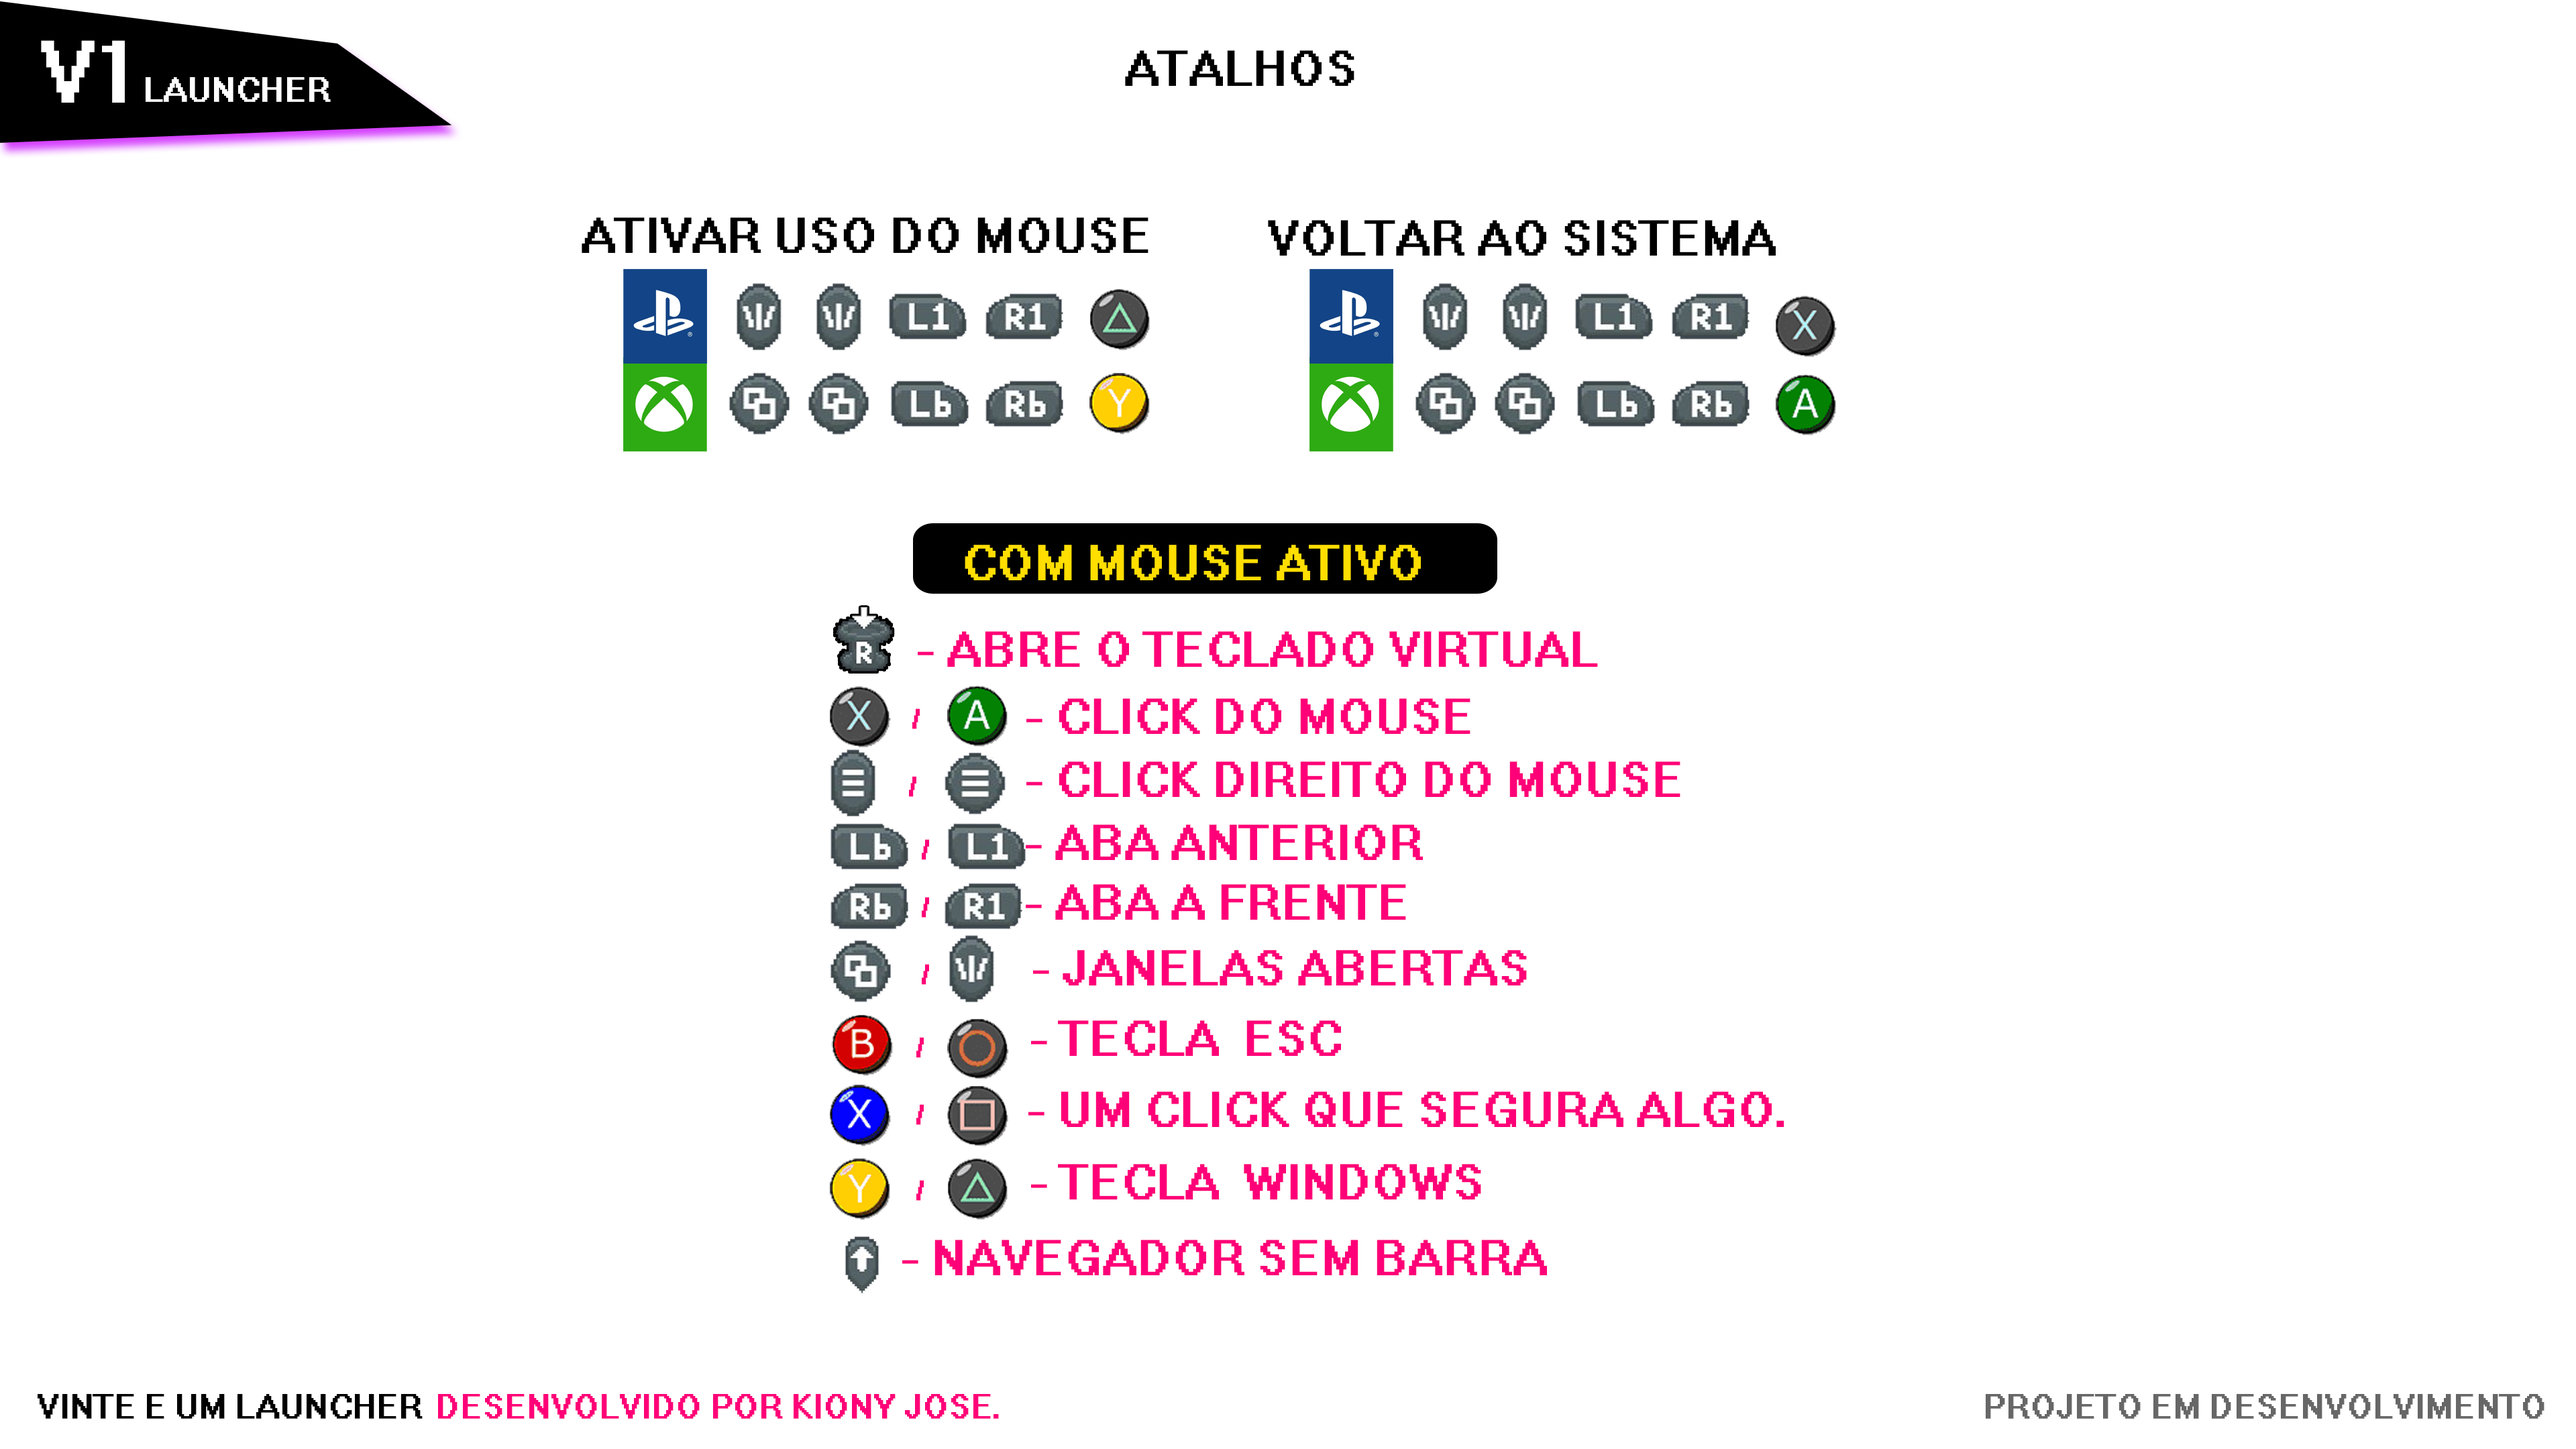
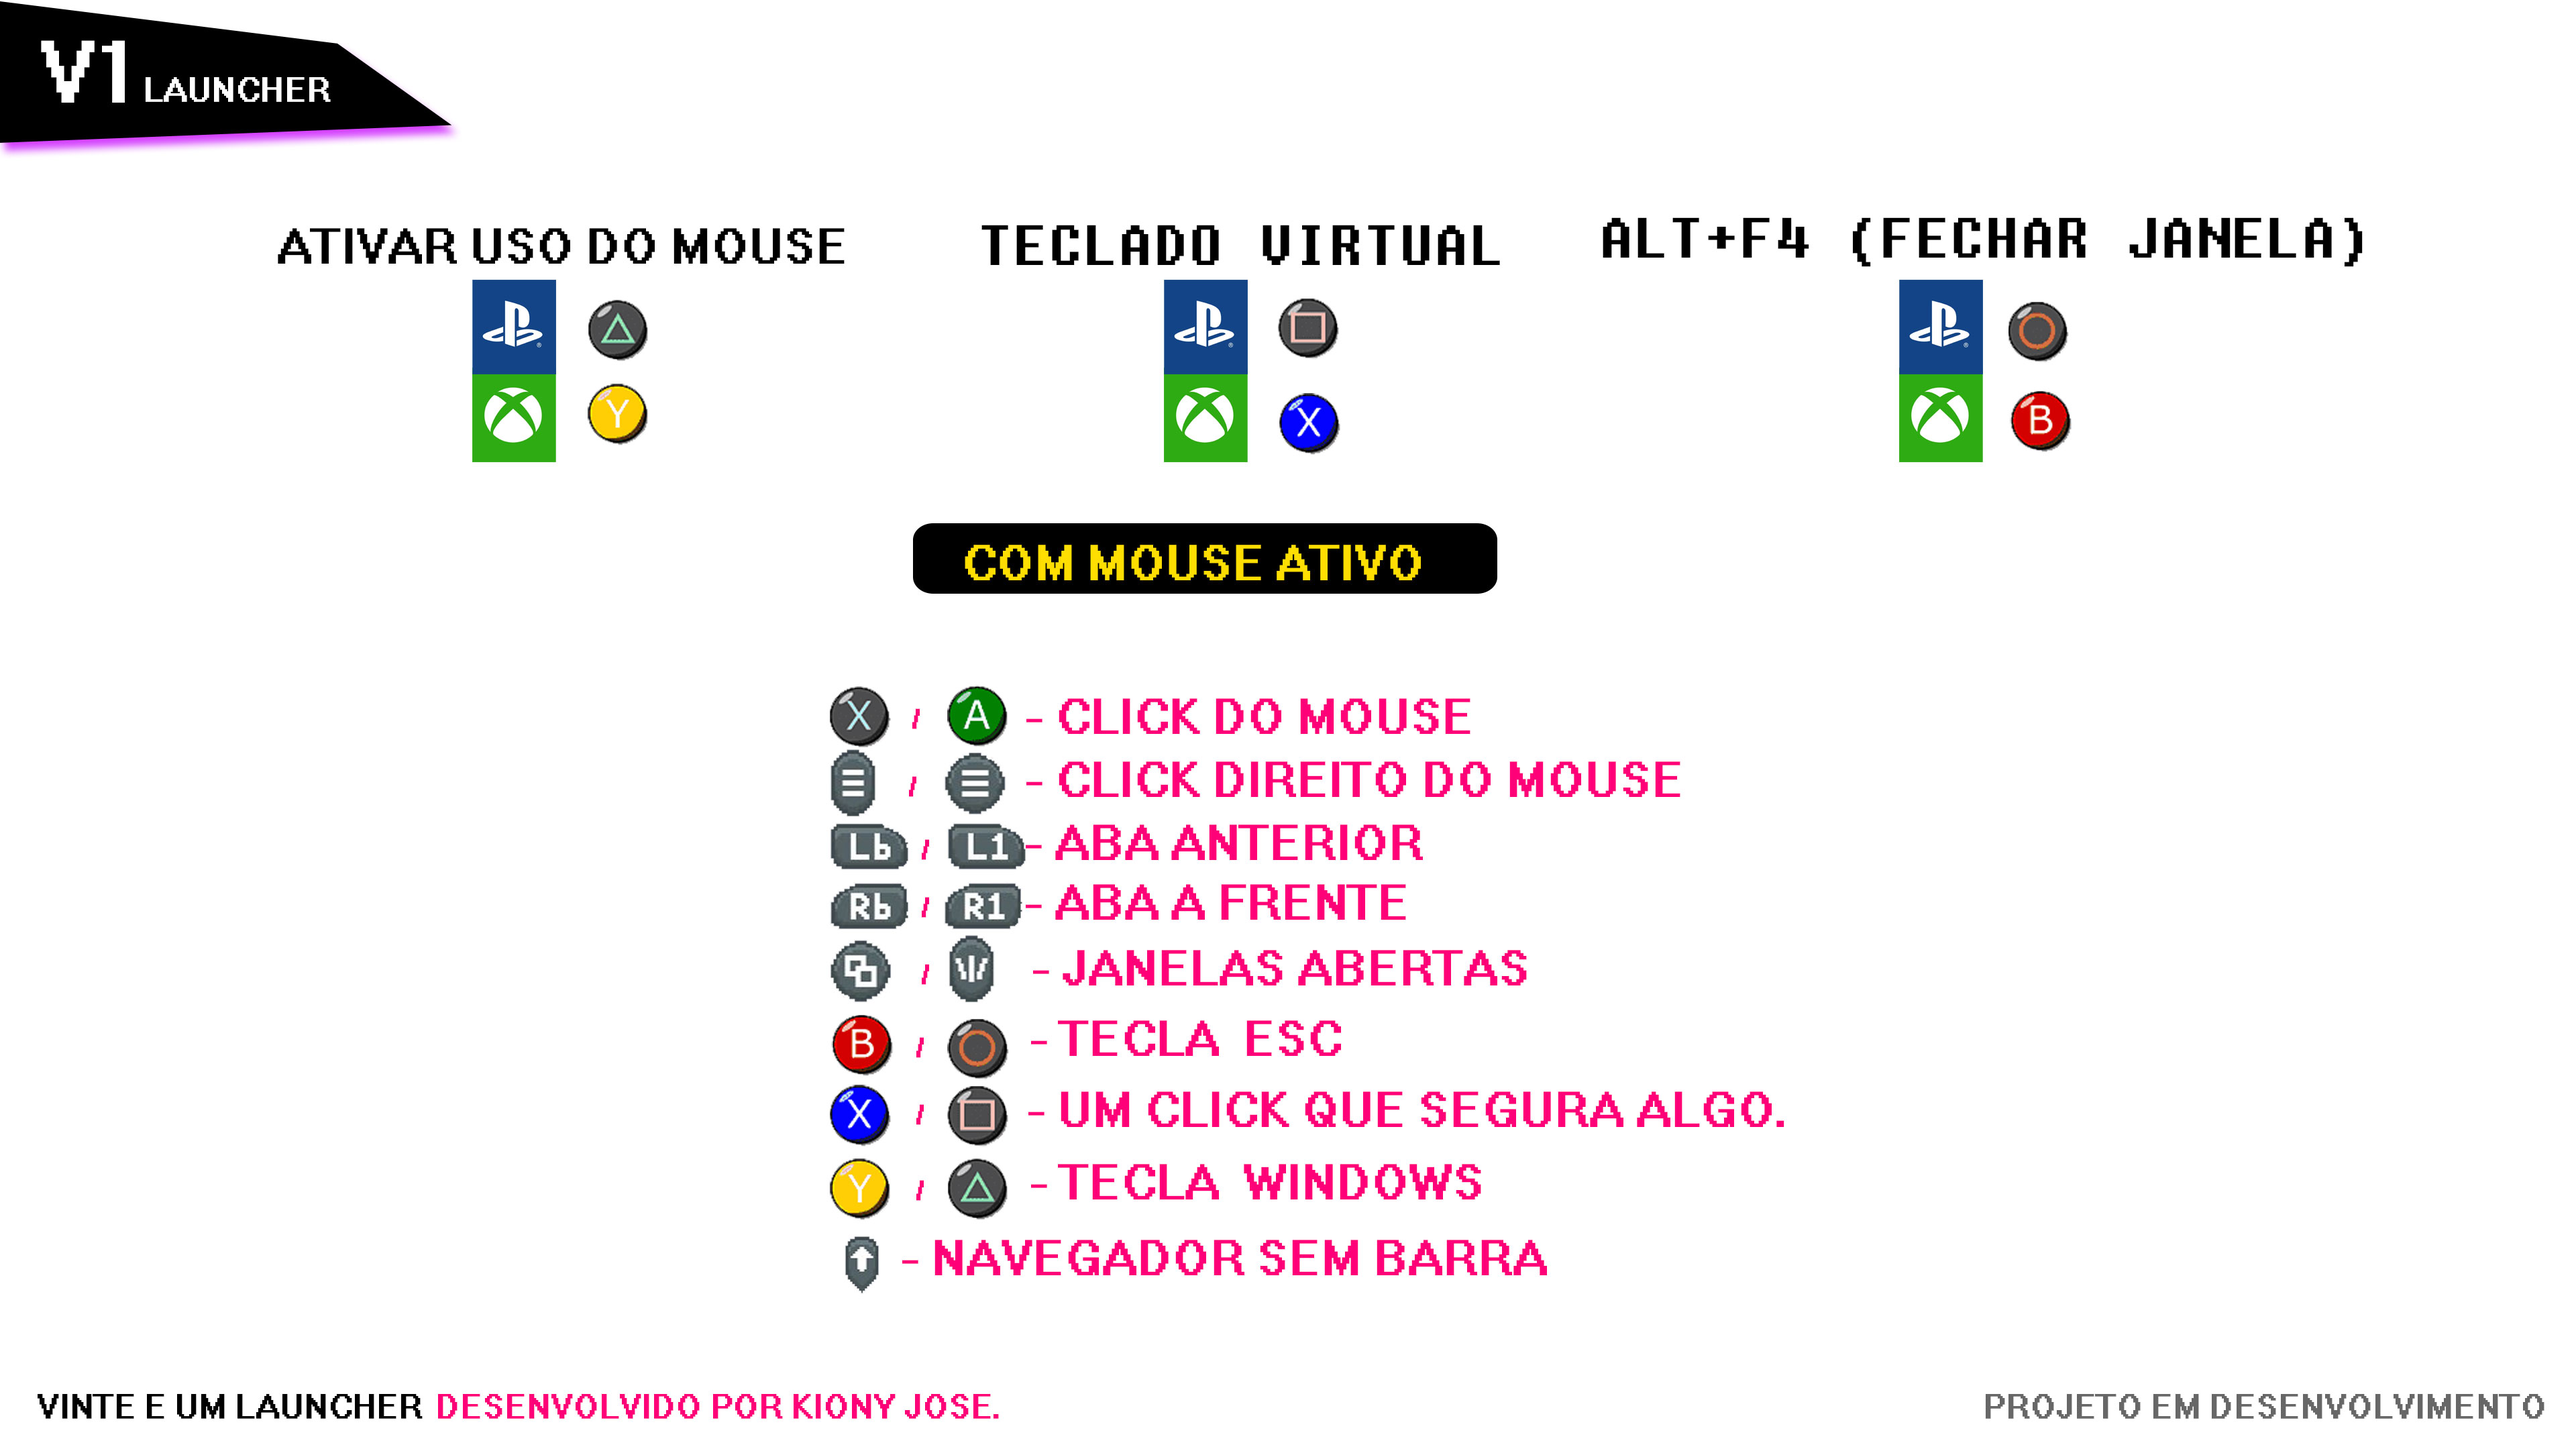
adiciona novos arquivos de imagem e atualiza lógica de controle de teclado e mouse

Changed region(s): [[0.0938, 0.1551, 0.9375, 0.3412], [0.3125, 0.4032, 0.625, 0.4653], [0.4375, 0.031, 0.5312, 0.062]]

diff --git a/lib/Class/MouseCtrl.dart b/lib/Class/MouseCtrl.dart
@@ -71,10 +71,10 @@ final class MouseCtrl extends Struct {
     int y = point.ref.y;
     // Mover o cursor
     // mouse_event(0x0001, x, y, 0, 0);  // Movimento do mouse (MOUSEEVENTF_MOVE)
-  
     // Clicar
     mouseClick(0x0002, x, y, 0, 0);  // Pressionar o botão esquerdo do mouse (MOUSEEVENTF_LEFTDOWN)
     mouseClick(0x0004, x, y, 0, 0);  // Liberar o botão esquerdo do mouse (MOUSEEVENTF_LEFTUP)
+    calloc.free(point);
   }
 
   static void clickDireito() {
@@ -89,28 +89,38 @@ final class MouseCtrl extends Struct {
     int y = point.ref.y;
     // Mover o cursor
     // mouse_event(0x0001, x, y, 0, 0);  // Movimento do mouse (MOUSEEVENTF_MOVE)
-  
     // Clicar
     if(segurar) mouseClick(0x0002, x, y, 0, 0);  // Pressionar o botão esquerdo do mouse (MOUSEEVENTF_LEFTDOWN)
     if(!segurar)mouseClick(0x0004, x, y, 0, 0);  // Liberar o botão esquerdo do mouse (MOUSEEVENTF_LEFTUP)
+    calloc.free(point);
     return segurar;
   }
 
   static primeiroMovimento() async {
-
     String caminhoAssets = "$localPath\\data\\flutter_assets\\assets\\Scripts\\";
     var caminhoDoAplicativo = '${caminhoAssets}AutoHotkeyA32.exe';
-    // Caminho do arquivo que você deseja abrir
     var caminhoDoArquivo = '${caminhoAssets}moovMouse.ahk';
 
-    // Verifica se o aplicativo existe
+    debugPrint('Tentando iniciar AutoHotkey: $caminhoDoAplicativo');
+    debugPrint('Script .ahk: $caminhoDoArquivo');
+
     var aplicativo = File(caminhoDoAplicativo);
     if (await aplicativo.exists()) {
-      // Verifica se o arquivo existe
       var arquivo = File(caminhoDoArquivo);
       if (await arquivo.exists()) {
-        // Inicia um novo processo para abrir o arquivo com o aplicativo especificado
-        Process.start(caminhoDoAplicativo, [caminhoDoArquivo]);
+        try {
+          var process = await Process.start(caminhoDoAplicativo, [caminhoDoArquivo]);
+          debugPrint('Processo iniciado com PID: 24{process.pid}');
+          // Captura saída padrão e de erro para debug
+          process.stdout.transform(const SystemEncoding().decoder).listen((data) {
+            debugPrint('stdout: $data');
+          });
+          process.stderr.transform(const SystemEncoding().decoder).listen((data) {
+            debugPrint('stderr: $data');
+          });
+        } catch (e) {
+          debugPrint('Erro ao iniciar processo: $e');
+        }
       } else {
         debugPrint('Arquivo não encontrado: $caminhoDoArquivo');
       }
@@ -197,26 +207,31 @@ final class MouseCtrl extends Struct {
 
 
   // Adaptador principal para eventos do mouse via controle
-  static dynamic mouseAdapt(String event) {
+  static dynamic mouseAdapt(String event, bool teclando) {
     try {
-      // Atalhos de teclado
-      if(event.contains("RT-") || event == "RT") return TecladoCtrl.aumentarVolume();
-      if(event.contains("LT-") || event == "LT") return TecladoCtrl.diminuirVolume();
-      if(event == "R3") return TecladoCtrl.abrirTecladoVirtual();
-      if(event == "LB") return TecladoCtrl.previusPage();
-      if(event == "RB") return TecladoCtrl.nextPage();
-      if(event == "[LB-RB]") return debugPrint("SSSSSSSSSSSSSSSSSSS");
-      if(event == "CIMA") return TecladoCtrl.teclaF11();
-      if(event == "START") return clickDireito();
-      if(event == "SELECT") return TecladoCtrl.pressWinTab();
-      if(event == "1") {
-        _mouseClickHold = clickHold(_mouseClickHold);
-        return;
+      if(!teclando){
+        // Atalhos de teclado
+        if(event.contains("RT-") || event == "RT") return TecladoCtrl.aumentarVolume();
+        if(event.contains("LT-") || event == "LT") return TecladoCtrl.diminuirVolume();
+        if(event == "R3") return TecladoCtrl.abrirTecladoVirtual();
+        if(event == "LB") return TecladoCtrl.previusPage();
+        if(event == "RB") return TecladoCtrl.nextPage();
+        if(event == "[LB-RB]") return debugPrint("SSSSSSSSSSSSSSSSSSS");//deletar isso depois
+        if(event == "CIMA") return TecladoCtrl.teclaF11();
+        if(event == "START") return clickDireito();
+        if(event == "SELECT") return TecladoCtrl.pressWinTab();
+        if(event == "1") {
+          _mouseClickHold = clickHold(_mouseClickHold);
+          return;
+        }
+        if(event == "2") return simularClique();
+        if(event == "3") return TecladoCtrl.voltarNavegacao();
+        if(event == "4") return TecladoCtrl.teclaWindows();
+        if(event == "ST-SL") return TecladoCtrl.fecharAltF4();
       }
-      if(event == "2") return simularClique();
-      if(event == "3") return TecladoCtrl.voltarNavegacao();
-      if(event == "4") return TecladoCtrl.teclaWindows();
-      if(event == "ST-SL") return TecladoCtrl.fecharAltF4();
+      if(teclando){
+        if(event == "RB") return simularClique();
+      }
       
       // Movimento do mouse
       if(event.contains("ANALOGICO ESQUERDO")) {

diff --git a/lib/Class/Paad.dart b/lib/Class/Paad.dart
@@ -32,6 +32,7 @@ class Paad with ChangeNotifier{
   bool comandoAtivo = true;
   bool isMouse = false;
   bool padPs = true;
+  bool teclando = false;
   
   // Throttle para analógicos
   // DateTime? _ultimoMovimentoMouse;
@@ -73,7 +74,7 @@ class Paad with ChangeNotifier{
     
     addSequencia(event);
     if(delay) return;
-    if(isMouse) return MouseCtrl.mouseAdapt(event);
+    if(isMouse) return MouseCtrl.mouseAdapt(event, teclando);
     click = event;
     if(await naTela() && !delay)notifyListeners();
 
@@ -99,15 +100,49 @@ class Paad with ChangeNotifier{
     if(comandoSequencia.length == 5){
       comandoSequencia.removeAt(0);
       comandoSequencia.add(event);
+      fecharTelaVisivel();
       teclaEspaco();
       teclaEnter();
       voltaTela();
+      abrirTecladoSteam();
       mouseMoov();
     }else{        
       comandoSequencia.add(event);
     }
     // if(!isMouse)debugPrint("=--------------------  $comandoSequencia");
     
+  }
+
+  abrirTecladoSteam(){
+     // if(comandoSequencia)
+    debugPrint(comandoSequencia.toString());
+    if(comandoSequencia.length < 2) return;
+    String ultimo = comandoSequencia.last;
+    String penultimo = comandoSequencia[comandoSequencia.length -2];
+    if(penultimo == "GUIDE" && ultimo == "1"){
+      ativaMouse(usarEstado: true, estado: true);
+      teclando = true;
+      comandoSequencia.removeWhere((element) => element == "GUIDE");
+      return;
+    }
+    if(ultimo == "3" && teclando){
+      teclando = false;      
+      delay = true;
+      Timer(const Duration(microseconds: 1245), () => delay = false);   
+    }
+  }
+
+  fecharTelaVisivel(){
+    if(comandoSequencia.length < 2) return;
+    String ultimo = comandoSequencia.last;
+    String penultimo = comandoSequencia[comandoSequencia.length -2];
+    if(penultimo == "GUIDE" && ultimo == "3"){
+      SonsSistema.pim();
+      TecladoCtrl.fecharAltF4();
+      // limpar onde estiver escrito GUIDE
+      comandoSequencia.removeWhere((element) => element == "GUIDE");
+      return;
+    }
   }
   voltaTela(){
     // Verifica qualquer uma das sequências de voltar tela
@@ -128,6 +163,17 @@ class Paad with ChangeNotifier{
     Timer(const Duration(microseconds: 1245), () => delay = false);     
   }
   mouseMoov(){
+
+    // if(comandoSequencia)
+    debugPrint(comandoSequencia.toString());
+    if(comandoSequencia.length < 2) return;
+    String ultimo = comandoSequencia.last;
+    String penultimo = comandoSequencia[comandoSequencia.length -2];
+    if(penultimo == "GUIDE" && ultimo == "4"){
+      ativaMouse();
+      comandoSequencia.removeWhere((element) => element == "GUIDE");
+      return;
+    }
     // Verifica qualquer uma das sequências de ativar mouse
     if(_verificarSequencia(configSistema.sequenciaAtivaMouse1) ||
        _verificarSequencia(configSistema.sequenciaAtivaMouse2) ||

diff --git a/lib/Modelos/configs_sistema.dart b/lib/Modelos/configs_sistema.dart
@@ -94,8 +94,8 @@ class ConfigSistema {
       volume: (json['volume'] is num) ? (json['volume'] as num).toDouble() : 0.9,
       telaInicialTipo: json['telaInicialTipo'] ?? 1,
       videosTelaPrincipal: json['videosTelaPrincipal'] ?? true,
-      noticias: json['videosCardGame'] ?? false,
-      intro: json['intro'] ?? false,
+      noticias: json['videosCardGame'] ?? true,
+      intro: json['intro'] ?? true,
       sequenciaEnter: json['sequenciaEnter'] != null 
           ? List<String>.from(json['sequenciaEnter']) 
           : ["SELECT", "SELECT", "2", "2", "2"],

diff --git a/lib/Class/TecladoCtrl.dart b/lib/Class/TecladoCtrl.dart
@@ -249,7 +249,11 @@ class TecladoCtrl{
   }
 
   static abrirTecladoVirtual() async {
-    // DB db = DB();
+    // tecla GUIDE +  TECLA X DO CONTROLE XBOX no caso 1
+
+
+
+    // DB db = DB();O
     // final local = ('$localPai\\teclado_virtual.lnk');
     // // const local = ('C:\\Users\\kiony\\OneDrive\\Área de Trabalho\\teclado_virtual.exe - Atalho.lnk');
     // await db.openFile(local);

diff --git a/lib/main.dart b/lib/main.dart
@@ -39,7 +39,7 @@ void main() async {
   await windowManager.waitUntilReadyToShow(windowOptions, () async {
       await windowManager.show();
       await windowManager.focus();
-      // await windowManager.maximize();
+      await windowManager.maximize();
     },
   );
   await configucacoesSistema();

diff --git a/lib/Controllers/JanelaCtrl.dart b/lib/Controllers/JanelaCtrl.dart
@@ -52,7 +52,7 @@ class JanelaCtrl with ChangeNotifier, WindowListener{
 
   bool ativa = false;
   // deixar ativo depois
-  bool telaPresa = false;
+  bool telaPresa = true;
   
   
   
